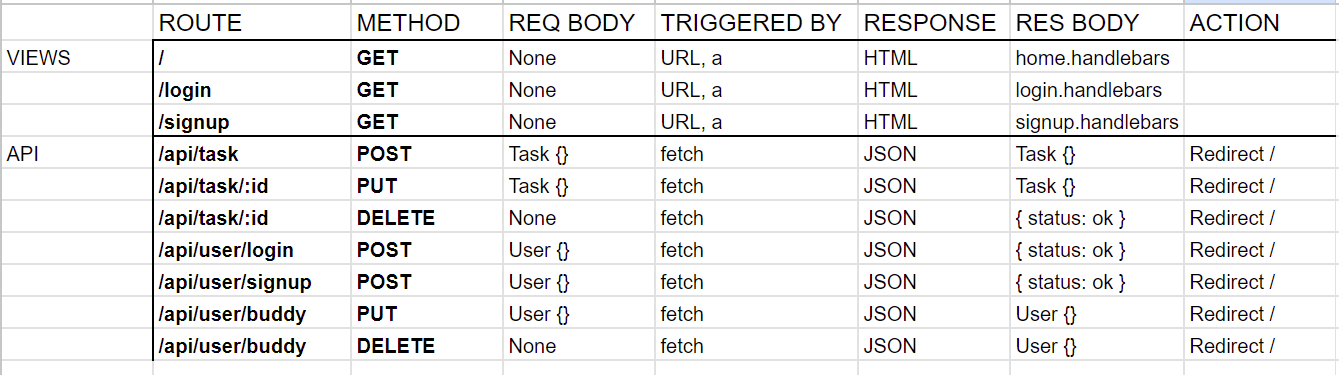
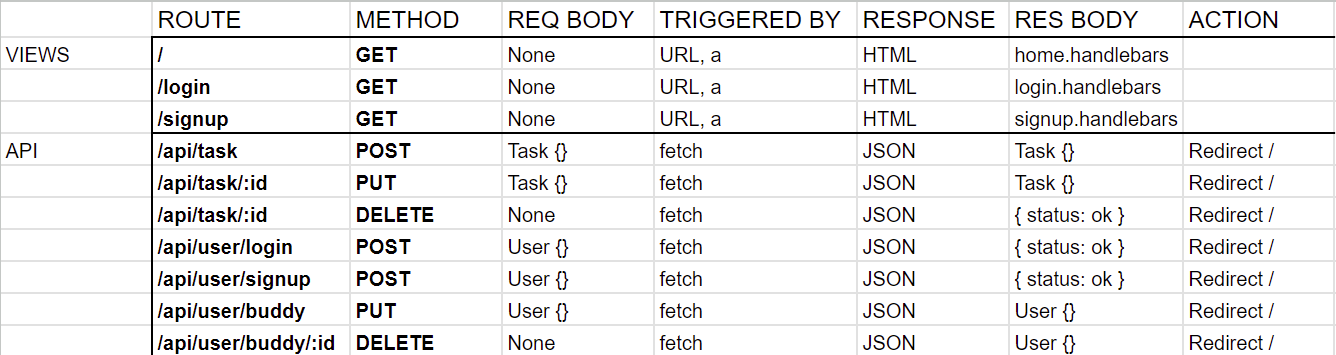
Fixed missing id parameter

Changed region(s): [[0.0, 0.0, 1.0, 1.0], [0.0, 0.093, 0.0614, 0.2169], [0.6138, 0.1859, 0.6445, 0.2169]]

diff --git a/README.md b/README.md
@@ -104,7 +104,7 @@ Application
       * Or research your own options for contacting the Accountabilibuddy.
           
           * Just make sure your selection allows for the Buddy to opt out of communications with your app by responding to your notification.
-          * Their response will make a DELETE to '/api/user/buddy'
+          * Their response will make a DELETE to '/api/user/buddy/:id' where the id parameter represents the User id.
     
     For convinience, modify the package.json file to include useful scripts:
     ```
@@ -163,7 +163,7 @@ Application
 
     * <b>PUT /api/user/buddy</b> - Has a request body representing User-shaped form data sent by client. Should use the session object to identify which User to modify. Response should redirect to '/'.
 
-    * <b>DELETE /api/user/buddy</b> - Should use the session object to identify which User to modify. Response should redirect to '/'.
+    * <b>DELETE /api/user/buddy/:id</b> - Should use the request parameter id to identify which User to modify. Response should redirect to '/'.
 
   #### Handlebars Routes
 
